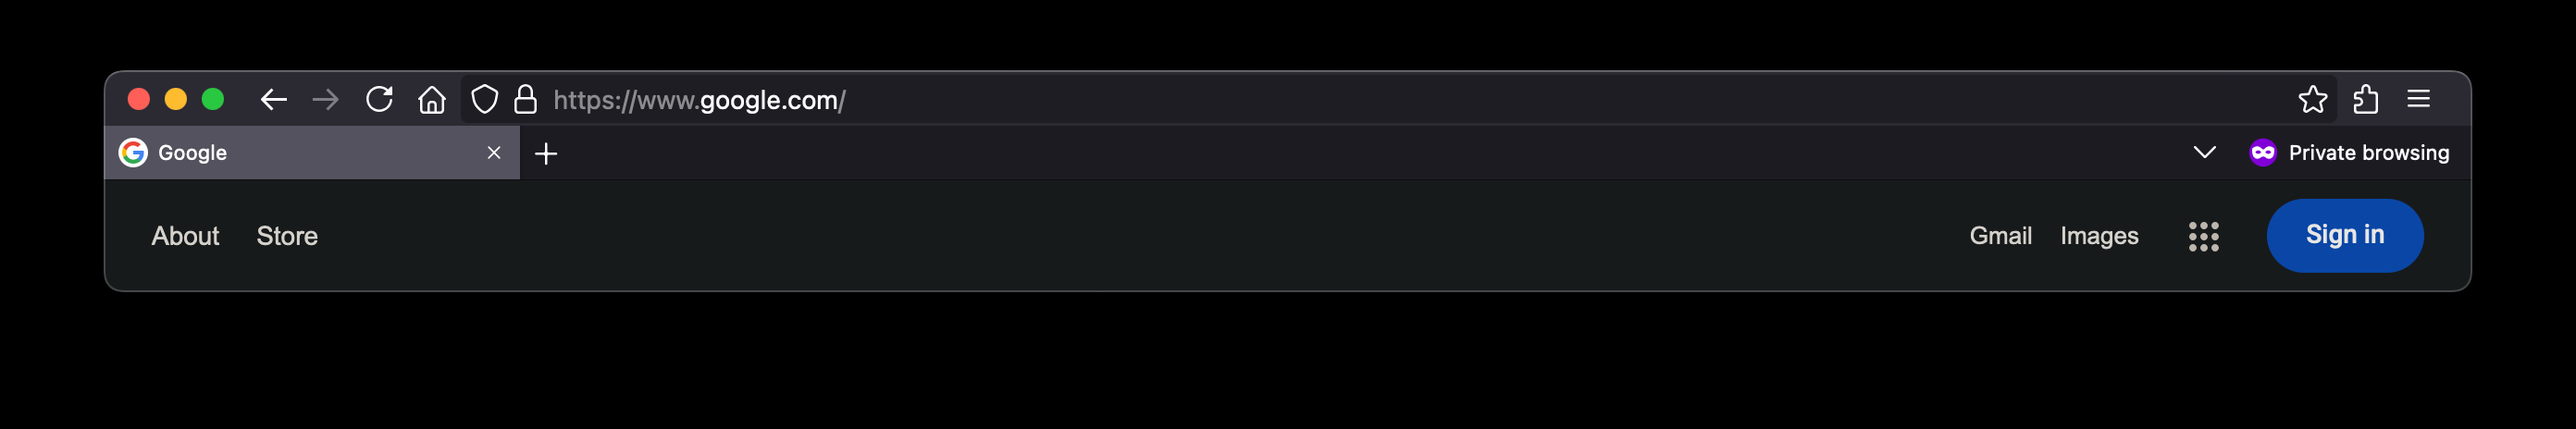
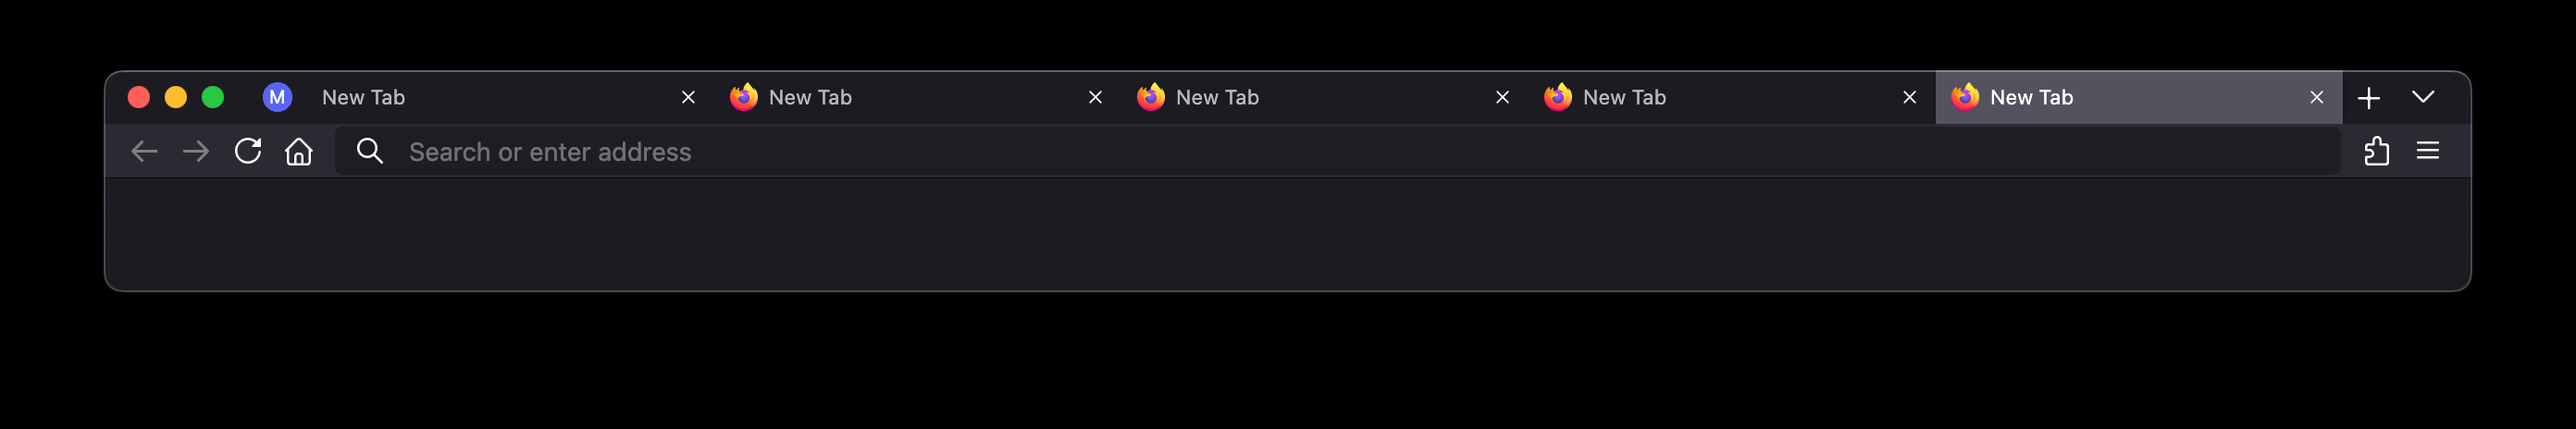
Fixes with tabs back on top.
Tabs back on top and fix window control buttons disappearing in recent Firefox update.

diff --git a/userChrome.css b/userChrome.css
@@ -1,164 +1,94 @@
-/* Firefox navigation/toolbar... */
 #nav-bar {
-  height: 29px !important;
-  padding-right: 2px !important;
-  vertical-align: bottom;
+  height:29px!important;
+  padding-right:2px!important;
+  vertical-align:bottom
 }
 
-/* Fix spacing around nav/toolbar buttons... */
 :root {
-  --toolbarbutton-outer-padding: 2px !important;
-  --toolbarbutton-inner-padding: 4px !important;
+  --arrowpanel-menuitem-padding-block:5px!important;
+  --arrowpanel-padding:.8em!important;
+  --inline-tab-padding:8px!important;
+  --panel-font-size:inherit!important;
+  --tab-block-margin:0!important;
+  --tab-inline-padding:8px!important;
+  --tabs-shadow-size:0!important;
+  --toolbarbutton-inner-padding:6px!important;
+  --toolbarbutton-outer-padding:0!important
 }
 
-/* Navigation/toolbar buttons... */
-#nav-bar {
-  margin-top: 1px !important;
+#nav-bar toolbarbutton,#nav-bar toolbaritem {
+  border:none!important;
+  border-radius:0!important
 }
 
-#nav-bar toolbarbutton,
-#nav-bar toolbaritem {
-  border: none !important;
-  border-radius: 0 !important;
-  margin: 0 1px !important;
-  padding: 0 !important;
-}
-
-/* Hide overflow menu (>>)... */
 #nav-bar-overflow-button {
-  display: none !important;
+  display:none!important
 }
 
-/* Vertically centre tab bar text */
 .tab-label-container {
-  margin-top: -2px !important;
+  margin-top:-2px!important
 }
 
-/* Remove padding from tab bars... */
 #tabbrowser-tabs > #tabbrowser-arrowscrollbox > .tabbrowser-tab {
-  margin-inline-start: 0 !important;
+  margin-inline-start:0!important
 }
 
-/* Remove radius and padding from new tab button... */
 #tabs-newtab-button {
-  margin: 0 !important;
-  padding-inline-start: 0 !important;
+  margin:0!important;
+  padding-inline-start:0!important
 }
 
-/* Remove radius and padding from new tab button and background... */
-.tab-background, #tabs-newtab-button > .toolbarbutton-icon {
-  border-radius: 0 0 !important;
-  margin: 0 !important;
+.tab-background,#tabs-newtab-button > .toolbarbutton-icon {
+  border-radius:0 0!important;
+  margin:0!important
 }
 
-/* Remove padding from tabs in tabs bar... */
 .tabbrowser-tab {
-  padding-inline: 0 !important;
+  padding-inline:0!important
 }
 
-/* Remove padding after first tab... */
 .tabbrowser-tab[first-visible-tab] {
-  padding-inline-start: 0 !important;
+  padding-inline-start:0!important
 }
 
-/* Remove padding at beginning and end of tab bar... */
-.titlebar-spacer[type="pre-tabs"],
-.titlebar-spacer[type="post-tabs"] {
-  width: 12px !important;
+.titlebar-spacer[type="pre-tabs"],.titlebar-spacer[type="post-tabs"] {
+  width:12px!important
 }
 
-/* Source file https://github.com/MrOtherGuy/firefox-csshacks/tree/master/chrome/tabs_on_bottom_v2.css made available under Mozilla Public License v. 2.0
-See the above repository for updates as well as full license text. */
-
-/* This reorders toolbar to place tabs below other toolbars. Requires Firefox 133+ */
-
-@media (-moz-bool-pref: "userchrome.force-window-controls-on-left.enabled"){
-  #nav-bar > .titlebar-buttonbox-container{
-    order: -1 !important;
-    > .titlebar-buttonbox{
-      flex-direction: row-reverse;
-    }
-  }
-}
-@media not (-moz-bool-pref: "sidebar.verticalTabs"){
-  .global-notificationbox,
-  #tab-notification-deck,
-  #TabsToolbar{
-    order: 1;
-  }
-  #TabsToolbar > :is(.titlebar-spacer,.titlebar-buttonbox-container){
-    display: none;
-  }
-  :root[sizemode="fullscreen"] #nav-bar > .titlebar-buttonbox-container{
-    display: flex !important;
-  }
-  :root[tabsintitlebar] #toolbar-menubar:not([autohide="false"]) ~ #nav-bar{
-    > .titlebar-buttonbox-container{
-      display: flex !important;
-    }
-    :root[sizemode="normal"] & {
-      > .titlebar-spacer{
-        display: flex !important;
-      }
-    }
-    :root[sizemode="maximized"] & {
-      > .titlebar-spacer[type="post-tabs"]{
-        display: flex !important;
-      }
-      @media (-moz-bool-pref: "userchrome.force-window-controls-on-left.enabled"),
-        (-moz-gtk-csd-reversed-placement),
-        (-moz-platform: macos){
-        > .titlebar-spacer[type="post-tabs"]{
-          display: none !important;
-        }
-        > .titlebar-spacer[type="pre-tabs"]{
-          display: flex !important;
-        }
-      }
-    }
+@media (-moz-bool-pref: userchrome.force-window-controls-on-left.enabled) {
+  #nav-bar > .titlebar-buttonbox-container {
+    >titlebar-buttonboxflex-direction:row-reverse;
+    order:-1!important
   }
 }
 
-/* Source file https://github.com/MrOtherGuy/firefox-csshacks/tree/master/chrome/compact_proton.css made available under Mozilla Public License v. 2.0
-See the above repository for updates as well as full license text. */
-
-/* Small changes to make proton roughly as compact as the old compact mode */
-
-:root{
-  --toolbarbutton-inner-padding: 5px !important;
-  --tab-block-margin: 0px !important;
-  --tabs-shadow-size: 0px !important;
-  --arrowpanel-menuitem-padding-block: 5px !important;
-  --panel-font-size: inherit !important;
-  --arrowpanel-padding: 0.8em !important;
-  --inline-tab-padding: 8px !important; /* 8px is default value since it looks good - lower values compactify tabs horizontally */
-  --tab-inline-padding: 8px !important; /* Same as above, but for fx132 */
-}
-.subviewbutton.bookmark-item{ padding-block: 4px !important; }
-.subview-subheader{ display: block }
-menupopup > menuitem,
-menupopup > menu{ padding-block: 0.3em !important; }
-
-/* This is kinda weird, but it makes the horizontal line between tabs and nav-bar render "inside" nav-bar thus tabs are more visibily separated even if there is less space there */
-#nav-bar{
-  box-shadow: inset 0 var(--tabs-shadow-size) 0 var(--lwt-tabs-border-color) !important;
+.subviewbutton.bookmark-item {
+  padding-block:4px!important
 }
 
-.tab-close-button{
-  margin-inline-start: 0px !important;
-  width: 20px !important;
-  height: 20px !important;
-  padding: 5px !important;
+.subview-subheader {
+  display:block
 }
 
-#tabbrowser-tabs{ --uc-tabs-scrollbutton-border: 2px }
-#scrollbutton-up,
-#scrollbutton-down{ border-block-width: var(--uc-tabs-scrollbutton-border,0px) !important; }
+menupopup > menuitem,menupopup > menu {
+  padding-block:.3em!important
+}
 
-/* OPTIONAL - show audio label in compact mode and make the audio icon behavior match non-compact mode */
-/*
-.tab-secondary-label:is([soundplaying], [muted], [activemedia-blocked], [pictureinpicture]){ display: flex !important; margin-bottom: 1px }
-#TabsToolbar:not(:hover) .tab-icon-image{ opacity: 1 !important; }
-#TabsToolbar:not(:hover) .tab-icon-overlay:not([pinned]){ opacity: 0 !important; }
-*/
+#nav-bar {
+  box-shadow:inset 0 var(--tabs-shadow-size) 0 var(--lwt-tabs-border-color)!important
+}
 
+.tab-close-button {
+  height:20px!important;
+  margin-inline-start:0!important;
+  padding:5px!important;
+  width:20px!important
+}
+
+#tabbrowser-tabs {
+  --uc-tabs-scrollbutton-border:2px
+}
+
+#scrollbutton-up,#scrollbutton-down {
+  border-block-width:var(--uc-tabs-scrollbutton-border,0px)!important
+}
